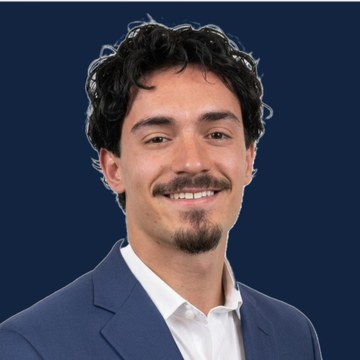
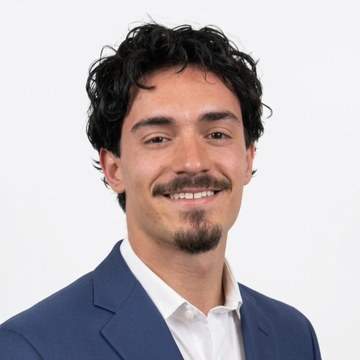
portfolio: research figure gallery with captions, tender tracker screenshot, original headshot
Claude-Session: https://claude.ai/code/session_01YL7WQ5mcZJ4NppNnUaJjBS

diff --git a/site_extra/portfolio/research.html b/site_extra/portfolio/research.html
@@ -29,6 +29,7 @@
 </div>
 <section class="section"><div class="wrap"><p class="label">Method</p><h2>Matched pairs, adjusted for rates, credit and maturity</h2><p>I built a dataset of green bonds, matched each one to a conventional bond from the same issuer, and adjusted for rates, credit spreads and maturity using free Treasury and Moody's data from FRED. The matches were first screened with help from Claude. Treat every number below as preliminary.</p></div></section>
 <section class="section"><div class="wrap"><p class="label">Results</p><h2>A small gap that the data cannot pin down</h2><div class="stats"><div class="stat"><div class="n">4.7 bps</div><p>Average gap, green bonds priced tighter than the matched conventional bonds. 177 pairs from 103 issuers. Not statistically significant, p 0.11. The 95 percent interval runs from 10.4 bps tighter to 1.1 bps wider.</p></div><div class="stat"><div class="n">1 to 8 bps</div><p>Range across other estimators and sample choices. The median pair is 8.0 bps tighter. Adding back pairs I had excluded cuts the average to 2.5. The data cannot narrow it.</p></div><div class="stat"><div class="n">+2.0 bps</div><p>Average for the 11 pairs sold within a week of each other. The tightest matches show no discount, though 11 is too few to be sure.</p></div><div class="stat"><div class="n">p 0.91</div><p>Test that the gap was the same across four periods from 2016 to 2026. No detectable change. After the ChatGPT launch the gap was 2.5 bps smaller, p 0.66, not significant.</p></div><div class="stat"><div class="n">8.1 bps</div><p>Smallest true gap this sample can detect reliably. A gap of 10 bps or more is rejected. Telling 5 bps from zero would take about 470 pairs. Tests for a shift over time only see changes of roughly 18 to 29 bps.</p></div><div class="stat"><div class="n">663 bonds</div><p>Unique green bonds after cleaning 1,226 tracker rows. 291 parent issuers, 40 countries, about $386 billion of face value, issued April 2009 to May 2026. 270 have matured.</p></div></div><p>On a $500 million, 10 year deal one basis point of coupon is worth about $50,000 a year, so 4.7 bps would be about $235,000 a year if it were real. The data do not show that it is.</p></div></section>
+<section class="section" id="figures"><div class="wrap"><p class="label">Figures</p><h2>The research in thirteen charts</h2><p>Every chart is built from the results files by one script, so the numbers on this page and the charts always agree. Click any chart to open it full size.</p><ul class="figs"><li><figure><a class="img" href="assets/figures/fig1_universe_by_year.png"><img src="assets/figures/fig1_universe_by_year.png" alt="The dataset" loading="lazy"></a><figcaption><b>The dataset</b>663 green bonds by issue year, with the 177 in the pricing sample in orange. Issuance peaked in 2021 and 2022 and has fallen since.</figcaption></figure></li><li><figure><a class="img" href="assets/figures/fig3_credit_beta.png"><img src="assets/figures/fig3_credit_beta.png" alt="Why the credit adjustment matters" loading="lazy"></a><figcaption><b>Why the credit adjustment matters</b>The gap between each pair moves almost one for one with the change in credit spreads between the two issue dates. The slope is 0.92. Without this step, any greenium estimate mostly measures the credit cycle.</figcaption></figure></li><li class="full"><figure><a class="img" href="assets/figures/fig2_adjustment_steps.png"><img src="assets/figures/fig2_adjustment_steps.png" alt="Three steps from coupons to a greenium" loading="lazy"></a><figcaption><b>Three steps from coupons to a greenium</b>The raw coupon gap has a standard deviation of 109 bps. Taking out Treasury rates at each bond&#x27;s own tenor cuts it to 64. Taking out credit, rates and tenor together cuts it to 32 and leaves a mean of 4.7 bps tighter.</figcaption></figure></li><li class="full"><figure><a class="img" href="assets/figures/fig4_specification_chart.png"><img src="assets/figures/fig4_specification_chart.png" alt="The estimate across 25 specifications" loading="lazy"></a><figcaption><b>The estimate across 25 specifications</b>Most versions of the model land between zero and 10 bps tighter. Non US issuers sit at 12 tighter and the 11 same week pairs at 2 wider. No single choice drives the headline.</figcaption></figure></li><li><figure><a class="img" href="assets/figures/fig5_groups.png"><img src="assets/figures/fig5_groups.png" alt="By sector and rating" loading="lazy"></a><figcaption><b>By sector and rating</b>Financials show the largest discount at about 9 bps with p 0.02, but that is one of seven tests, and after correcting for that the p value is 0.15. Hold it loosely.</figcaption></figure></li><li><figure><a class="img" href="assets/figures/fig6_greenium_by_year.png"><img src="assets/figures/fig6_greenium_by_year.png" alt="By issue year" loading="lazy"></a><figcaption><b>By issue year</b>No year departs from the pooled estimate. The confidence intervals are wide because most years hold fewer than 40 pairs.</figcaption></figure></li><li class="full"><figure><a class="img" href="assets/figures/fig7_events.png"><img src="assets/figures/fig7_events.png" alt="Nine dated events" loading="lazy"></a><figcaption><b>Nine dated events</b>None of them, from the EU disclosure rules to the DeepSeek shock, shifts the greenium detectably. These tests can only see moves of 18 to 29 bps or more.</figcaption></figure></li><li><figure><a class="img" href="assets/figures/fig8_market_backdrop.png"><img src="assets/figures/fig8_market_backdrop.png" alt="The market behind the sample" loading="lazy"></a><figcaption><b>The market behind the sample</b>The 10 year Treasury yield and the credit index used, Moody&#x27;s Baa over the 30 year Treasury, with each pair&#x27;s issue date marked as a tick. The pairs cluster in 2021 and 2022.</figcaption></figure></li><li><figure><a class="img" href="assets/figures/fig9_power.png"><img src="assets/figures/fig9_power.png" alt="How many pairs it would take" loading="lazy"></a><figcaption><b>How many pairs it would take</b>With 177 pairs the smallest gap the test can reliably detect is 8.1 bps. Detecting 5 bps would take about 470 pairs. This is why the result is preliminary.</figcaption></figure></li><li><figure><a class="img" href="assets/figures/fig10_permutation.png"><img src="assets/figures/fig10_permutation.png" alt="A test that does not depend on the model&#x27;s assumptions" loading="lazy"></a><figcaption><b>A test that does not depend on the model&#x27;s assumptions</b>Flipping the sign of each issuer&#x27;s gaps at random 20,000 times produces a mean at least as large as 4.7 bps about 11 percent of the time.</figcaption></figure></li><li><figure><a class="img" href="assets/figures/fig12_distribution_noise.png"><img src="assets/figures/fig12_distribution_noise.png" alt="The 177 gaps, and why the date gap matters" loading="lazy"></a><figcaption><b>The 177 gaps, and why the date gap matters</b>The mean is 4.7 bps tighter and the median 8.2. Noise grows with the time between the two issue dates, from 18 bps within a week to 37 beyond two years.</figcaption></figure></li><li class="full"><figure><a class="img" href="assets/figures/fig11_specifications.png"><img src="assets/figures/fig11_specifications.png" alt="Mean versus robust estimators" loading="lazy"></a><figcaption><b>Mean versus robust estimators</b>Estimators that ignore the outliers, the median and trimmed means, give 6 to 8 bps tighter. Adding back excluded pairs gives 1 to 3. The honest range is about 1 to 8 bps.</figcaption></figure></li><li class="full"><figure><a class="img" href="assets/figures/fig13_posteriors.png"><img src="assets/figures/fig13_posteriors.png" alt="What the data say under different starting beliefs" loading="lazy"></a><figcaption><b>What the data say under different starting beliefs</b>A sceptic who expects zero ends at 2.4 bps tighter. Someone who expects the larger discounts found in cross issuer studies ends at 5.9. The data pull everyone toward a small number.</figcaption></figure></li></ul></div></section>
 <section class="section"><div class="wrap"><p class="label">What I got wrong first</p><h2>A 25 bps result that was an artifact</h2><p>An early version showed the gap shrinking by 25 bps. It came from measuring credit spreads over the 10 year Treasury, which picks up the slope of the curve. Measured over the 30 year Treasury the credit index tracks the ICE BofA investment grade index with a correlation of 0.95, against 0.40 before. I fixed it and withdrew the claim.</p></div></section>
 <section class="section"><div class="wrap"><p class="label">What comes next</p><h2>Three things that would change these numbers</h2><ul class="bul"><li>Verifying the 32 matched pairs with the largest residuals on the terminal, then rerunning with the confirmed set.</li><li>Replacing coupons with offering yields and daily prices, which needs TRACE and Mergent FISD access.</li><li>Finishing the twin search for the 197 green bonds that still have no conventional match.</li></ul></div></section>
 <section class="section"><div class="wrap"><p class="label">Sources</p><h2>Where the numbers come from</h2><p class="note">Built from Bloomberg, Climate Bonds Initiative and FRED data. My supervisor approved publishing summary statistics. No bond level data is shown. Last updated October 2026.</p></div></section>

diff --git a/site_extra/portfolio/tender.html b/site_extra/portfolio/tender.html
@@ -27,7 +27,7 @@
   <p class="meta">Personal project. October 2026 to now.</p>
   <p class="lede">A daily tracker of cash tender offers and exchange offers for corporate bonds, read from SEC filings.</p>
 </div>
-<section class="section"><div class="wrap"><p class="label">What it does</p><h2>One row per offer, with a link to the filing</h2><p>Each offer shows its securities, cap, expiration and the steps seen so far, with a link to the filing behind every row. It reads public SEC filings only and rebuilds every day.</p><p class="links"><a href="../tender/">Open the tracker</a> &nbsp;&middot;&nbsp; <a href="https://github.com/ferrierotony-cmyk/market_dashboard/tree/tender-lab/tender" rel="noopener">Code</a></p></div></section>
+<section class="section"><div class="wrap"><p class="label">What it does</p><h2>One row per offer, with a link to the filing</h2><p>Each offer shows its securities, cap, expiration and the steps seen so far, with a link to the filing behind every row. It reads public SEC filings only and rebuilds every day.</p><p class="links"><a href="../tender/">Open the tracker</a> &nbsp;&middot;&nbsp; <a href="https://github.com/ferrierotony-cmyk/market_dashboard/tree/tender-lab/tender" rel="noopener">Code</a></p><a class="shot" href="../tender/"><img src="assets/tender-tracker.jpg" alt="The Tender Tracker page, showing open and finished offers with their securities, caps and expiration dates" width="1920" height="1290" loading="lazy"></a></div></section>
 <section class="section"><div class="wrap"><p class="label">How often it is right</p><h2>Nine in ten on type and dates, three in four on securities and caps</h2><p>AI reviewers graded it against the filings on releases the rules had never seen. Offer type and dates were right about nine times in ten. Securities and caps were right about three times in four. A person has not checked these rows.</p><p>The most common mistake is counting new notes being issued, or notes being redeemed, as the notes targeted. On the period the rules were built on, it found 32 of 33 offer releases, which is a best case.</p></div></section>
 <section class="section"><div class="wrap"><p class="label">How it is built</p><h2>Two stages, no paid services</h2><ul class="bul"><li>A fetch step searches EDGAR full text search for tender and exchange offer press releases and caches the text.</li><li>An offline rules step extracts offer type, securities, cap and dates, then groups releases into offers.</li><li>A GitHub Actions job runs both every morning and publishes the page. It costs nothing to run.</li></ul></div></section>
 <section class="section"><div class="wrap next"><a href="index.html#case-files">&larr; All case files</a><a href="dashboard.html">Next: Morning Market Dashboard &rarr;</a></div></section>

diff --git a/site_extra/portfolio/style.css b/site_extra/portfolio/style.css
@@ -128,6 +128,25 @@ h2 { font-size: clamp(1.6rem, 3.6vw, 2.3rem); line-height: 1.12; margin: 0 0 16p
 .next { display: flex; justify-content: space-between; flex-wrap: wrap; gap: 10px; font-weight: 600; }
 .links { font-family: var(--mono); font-size: 14px; }
 
+/* figures */
+.figs { list-style: none; margin: 18px 0 0; padding: 0; display: grid; grid-template-columns: 1fr 1fr; gap: 18px; }
+.figs li { background: var(--surface); border: 1px solid var(--line); border-radius: 10px; overflow: hidden; display: flex; flex-direction: column; }
+.figs li.full { grid-column: 1 / -1; }
+.figs li.full a.img { max-width: 900px; margin: 0 auto; width: 100%; }
+.figs a.img { display: block; background: #fff; padding: 10px; }
+.figs img { display: block; width: 100%; height: auto; }
+.figs figcaption { padding: 14px 16px 16px; font-size: 15px; line-height: 1.5; color: var(--muted); }
+.figs figcaption b { display: block; color: var(--ink); font-weight: 600; margin-bottom: 3px; }
+.figs figure { margin: 0; display: flex; flex-direction: column; height: 100%; }
+@media (max-width: 760px) { .figs { grid-template-columns: 1fr; } }
+.shot { display: block; margin: 18px 0 0; border: 1px solid var(--line2); border-radius: 10px; overflow: hidden; box-shadow: 0 30px 60px -40px rgba(0,0,0,.9); }
+.shot img { display: block; width: 100%; height: auto; }
+.strip { list-style: none; margin: 18px 0 0; padding: 0; display: grid; grid-template-columns: repeat(3, 1fr); gap: 14px; }
+.strip li a { display: block; background: #fff; border-radius: 8px; padding: 8px; border: 1px solid var(--line); }
+.strip img { display: block; width: 100%; height: auto; }
+.strip span { display: block; margin-top: 8px; font-size: 14px; color: var(--muted); }
+@media (max-width: 700px) { .strip { grid-template-columns: 1fr; } }
+
 /* footer */
 .site-foot { border-top: 1px solid var(--line); margin-top: 40px; padding: 26px 0 48px; color: var(--muted); font-size: 14px; }
 .site-foot .row { display: flex; flex-wrap: wrap; justify-content: space-between; gap: 10px 24px; }

diff --git a/site_extra/portfolio/index.html b/site_extra/portfolio/index.html
@@ -59,6 +59,16 @@
     <li><span>Society</span><div>Running Finance Society events, including a LinkedIn workshop in the Bloomberg Terminal room.</div></li>
   </ul>
 </div></section>
+<section class="section"><div class="wrap">
+  <p class="label">Research in three charts</p>
+  <h2>How a 109 bps mess becomes a 4.7 bps answer</h2>
+  <p>The full set of thirteen charts, with what each one means, is on the <a href="research.html#figures">research page</a>.</p>
+  <ul class="strip">
+    <li><a href="research.html#figures"><img src="assets/figures/fig2_adjustment_steps.png" alt="Three histograms showing the gap narrowing as rates, credit and tenor are removed" loading="lazy"><span>Three adjustment steps cut the noise from 109 bps to 32.</span></a></li>
+    <li><a href="research.html#figures"><img src="assets/figures/fig3_credit_beta.png" alt="Scatter plot of pair gaps against the change in credit spreads, slope 0.92" loading="lazy"><span>The pair gap tracks the credit cycle almost one for one.</span></a></li>
+    <li><a href="research.html#figures"><img src="assets/figures/fig9_power.png" alt="Curve of smallest detectable greenium against number of pairs" loading="lazy"><span>177 pairs can detect 8 bps. Detecting 5 would take 470.</span></a></li>
+  </ul>
+</div></section>
 <section class="section" id="case-files"><div class="wrap">
   <p class="label">Case files</p>
   <h2>Projects, roles and the numbers behind them</h2>
